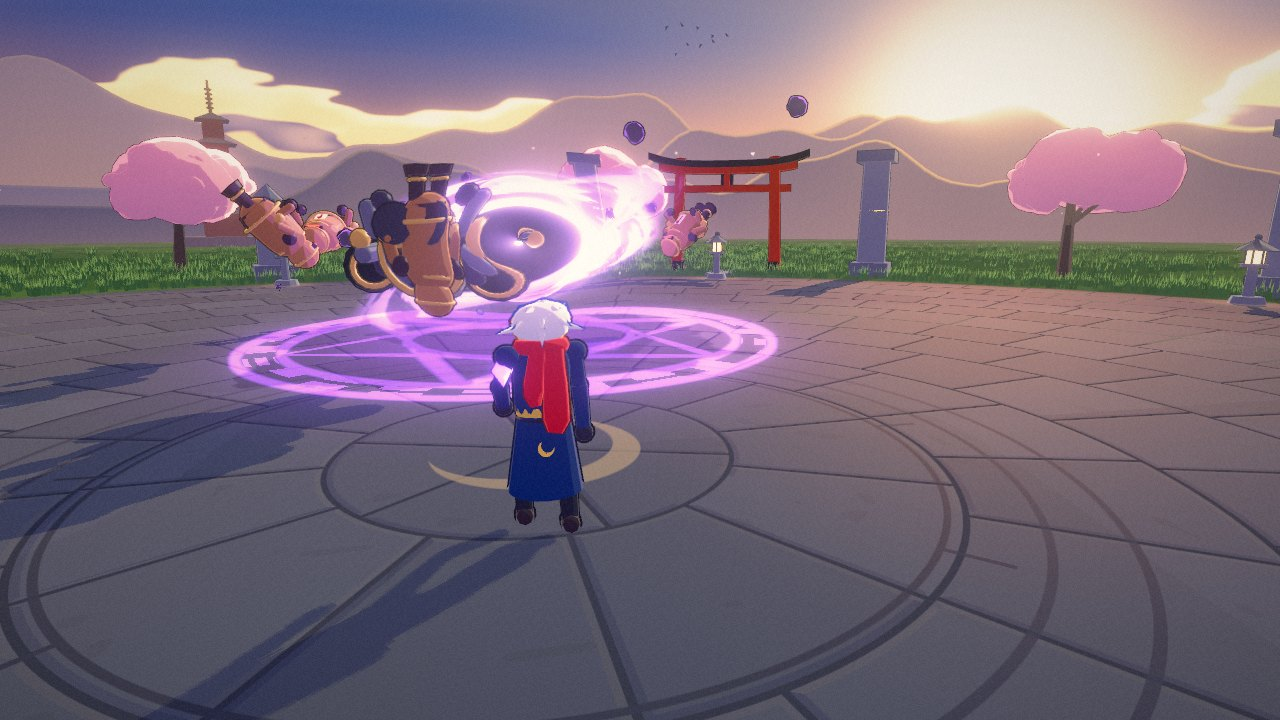
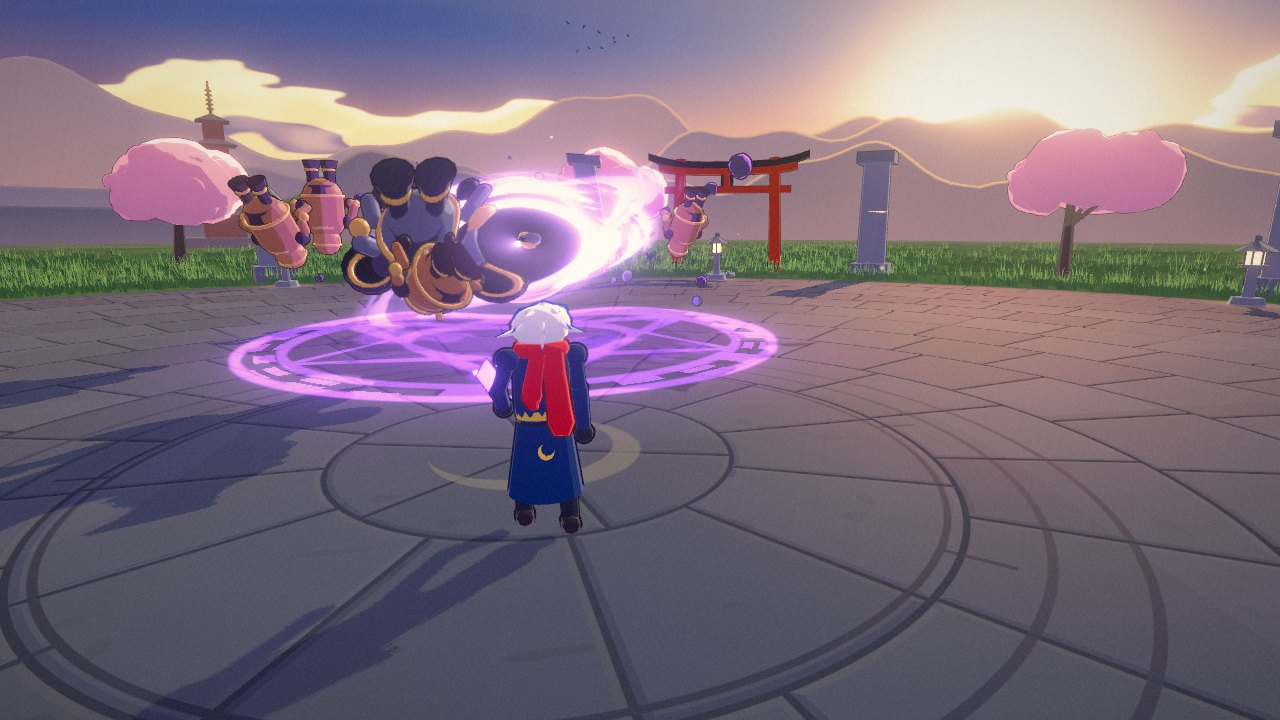
Cross-fade the time-of-day toggle; README screenshots
- K now blends dusk <-> night over 1.6 s (sun/moon glide, shadows turn);
  a toggle mid-fade starts from the blended state on screen.
- docs/: dusk hero, katana slash, black hole, moonlit night and a night
  thunderstrike, rendered headless via the showcase scenario.

Claude-Session: https://claude.ai/code/session_01L23K1mAjD2wNRWUKJsHjJM

diff --git a/src/world/arena.js b/src/world/arena.js
@@ -515,33 +515,63 @@ export class Arena {
     }
   }
 
-  /** 'dusk' (default) or 'night': swaps sky, light, haze and set-dressing colours. */
-  setTimeOfDay(mode, pipeline) {
-    const P = TIMES[mode] ?? TIMES.dusk;
+  /** 'dusk' (default) or 'night': swaps sky, light, haze and set-dressing colours.
+   *  With `fade` (seconds) the two presets cross-fade (advance with updateTime). */
+  setTimeOfDay(mode, pipeline, fade = 0) {
+    const to = TIMES[mode] ?? TIMES.dusk;
+    const from = this.todCur ?? TIMES[this.time ?? 'dusk'];
     this.time = mode;
+    this.pipelineRef = pipeline ?? this.pipelineRef;
+    if (fade > 0) { this.tod = { from, to, t: 0, dur: fade }; return; }
+    this.tod = null;
+    this.applyTime(to, to, 1);
+  }
+
+  updateTime(dtReal) {
+    const T = this.tod;
+    if (!T) return;
+    T.t += dtReal / T.dur;
+    const k = Math.min(1, T.t);
+    this.applyTime(T.from, T.to, k * k * (3 - 2 * k));
+    if (k >= 1) this.tod = null;
+  }
+
+  applyTime(A, B, k) {
+    // blend every field, then apply; the blended preset is kept so a toggle in
+    // mid-fade starts from what is on screen
+    const lerp3 = (a, b) => [a[0] + (b[0] - a[0]) * k, a[1] + (b[1] - a[1]) * k, a[2] + (b[2] - a[2]) * k];
+    const hex = (a, b) => _ca.set(a).lerp(_cb.set(b), k).getHex();
+    const P = {};
+    for (const key of ['lightDir', 'light', 'skyAmb', 'groundAmb', 'rim', 'sunDir', 'sun', 'ridgeRim', 'grassTint', 'rays']) P[key] = lerp3(A[key], B[key]);
+    P.fogRange = [A.fogRange[0] + (B.fogRange[0] - A.fogRange[0]) * k, A.fogRange[1] + (B.fogRange[1] - A.fogRange[1]) * k];
+    for (const key of ['stars', 'sheenK', 'pools']) P[key] = A[key] + (B[key] - A[key]) * k;
+    for (const key of ['fog', 'zenith', 'mid', 'horizon', 'cloudLit', 'cloudShade', 'sheen', 'ridgeHaze']) P[key] = hex(A[key], B[key]);
+    P.ridges = A.ridges.map((c, i) => hex(c, B.ridges[i]));
+    P.grass = A.grass.map((c, i) => hex(c, B.grass[i]));
+    this.todCur = P;
     const L = toonGlobals, S = this.skyMat.uniforms;
     L.uLightDir.value.set(...P.lightDir).normalize();
     L.uLightColor.value.setRGB(...P.light);
     L.uSkyAmb.value.setRGB(...P.skyAmb); L.uGroundAmb.value.setRGB(...P.groundAmb);
     L.uRimColor.value.setRGB(...P.rim);
-    L.uFogColor.value.set(P.fog); L.uFog.value.set(...P.fogRange);
+    L.uFogColor.value.set(P.fog); L.uFog.value.set(P.fogRange[0], P.fogRange[1]);
     S.uZenith.value.set(P.zenith); S.uMid.value.set(P.mid); S.uHorizon.value.set(P.horizon);
     S.uSunDir.value.set(...P.sunDir).normalize();
     S.uSunColor.value.setRGB(...P.sun);
     S.uCloudLit.value.set(P.cloudLit); S.uCloudShade.value.set(P.cloudShade);
     S.uStars.value = P.stars;
     this.ground.material.uniforms.uSheen.value.set(P.sheen).multiplyScalar(P.sheenK);
-    this.ridgeMats.forEach((m, i) => {
-      m.uniforms.uColor.value.set(P.ridges[i]); m.uniforms.uHaze.value.set(P.ridgeHaze); m.uniforms.uRim.value.setRGB(...P.ridgeRim);
-    });
+    this.ridgeMats.forEach((m, i) => { m.uniforms.uColor.value.set(P.ridges[i]); m.uniforms.uHaze.value.set(P.ridgeHaze); m.uniforms.uRim.value.setRGB(...P.ridgeRim); });
     if (this.grassMat) {
       const u = this.grassMat.uniforms;
       u.uBase.value.set(P.grass[0]); u.uTip.value.set(P.grass[1]); u.uSunTint.value.setRGB(...P.grassTint);
     }
     if (this.poolMat) this.poolMat.uniforms.uGain.value = P.pools;
-    if (pipeline) pipeline.u.uSunColor.value.setRGB(...P.rays);
+    if (this.pipelineRef) this.pipelineRef.u.uSunColor.value.setRGB(...P.rays);
   }
 }
+
+const _ca = new THREE.Color(), _cb = new THREE.Color();
 
 const TIMES = {
   dusk: {

diff --git a/src/main.js b/src/main.js
@@ -86,7 +86,7 @@ function globalKeys() {
   if (input.wasPressed('KeyM')) { G.settings.sound = !G.settings.sound; audio.mute(!G.settings.sound); hud.toast(G.settings.sound ? '사운드 ON' : '사운드 OFF'); }
   if (input.wasPressed('KeyK')) {
     const night = arena.time !== 'night';
-    arena.setTimeOfDay(night ? 'night' : 'dusk', pipeline);
+    arena.setTimeOfDay(night ? 'night' : 'dusk', pipeline, 1.6);
     ambience.night = night;
     hud.toast(night ? '달밤' : '해질녘');
   }
@@ -118,6 +118,7 @@ function frame(dtReal) {
   ambience.update(Time.dt, player.pos);
   audio.music?.tick();
   arena.update(Time.dt, fx, player.pos);
+  arena.updateTime(dtReal);
   fx.update(Time.dt);
 
   attractCam?.();

diff --git a/DECISIONS.md b/DECISIONS.md
@@ -137,5 +137,6 @@
   환경광·림·안개, 능선·풀 색, 바닥 반사색, 석등 빛 웅덩이 세기(×2.8), 갓레이 색을 함께 바꿈. 떠다니는 먼지 대신 **반딧불**(천천히 떠다니며 켜졌다 꺼짐).
 - 달은 **초승달**(원반을 살짝 비켜 난 원반으로 깎음) — 코트 문장·바닥 상감·카타나 「청월」과 같은 모티프.
 - 첫 시도는 낮을 파랗게 칠한 듯한("day for night") 과포화 청색이라, 달빛·환경광·하늘·능선 림을 어둡고 덜 푸르게 다시 잡음.
+- K를 누르면 두 프리셋을 1.6초 동안 크로스페이드(해·달이 하늘을 미끄러지고 그림자 방향이 함께 도는 짧은 타임랩스처럼 보임). 페이드 도중 다시 누르면 화면에 보이던 중간 상태에서 되돌아감.
 - `?night` URL 파라미터로 처음부터 달밤으로 시작 가능.
 - 연기/먼지 퍼프의 외곽선을 거의 검은 잉크색 대신 각 퍼프의 그림자색을 어둡게 한 색으로(솜뭉치처럼 떠 보이는 문제 완화).
